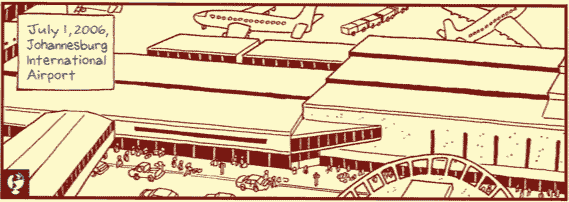
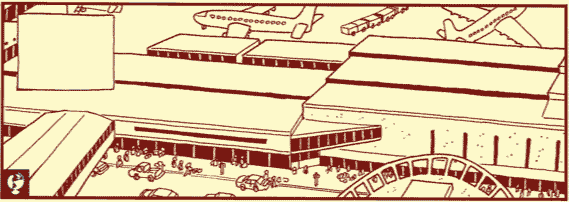
resizing captions

Changed region(s): [[0.0299, 0.1188, 0.2091, 0.3267], [0.0299, 0.3564, 0.1494, 0.4158]]

diff --git a/css/styles.css b/css/styles.css
@@ -27,8 +27,18 @@ body {
   max-width: 100%;
   vertical-align: top;
 }
+/* This element can be used later on to globally adjust the position on screen resize */
+.panel-text-wrapper {
+  position: absolute;
+  width: 100%;
+  height: 100%;
+}
 .panel-text {
   position: absolute;
+  font-family: "Comic Sans MS", sans-serif;
+  font-size: 1.3em;
+  text-align: center;
+  line-height: 1.2em;
 }
 .first-panel-in-row {
   margin-right: 1%;
@@ -39,5 +49,13 @@ body {
   }
   .panel {
     background-color: #00f;
+  }
+  .panel-text {
+    font-size: 2.3vw;
+  }
+}
+@media (max-width: 320px) {
+  .panel-text {
+    font-size: 2.3vw;
   }
 }

diff --git a/index.html b/index.html
@@ -15,7 +15,9 @@
    <script type="text/jst" id="panel-template">
      <div class="panel <% if (m) print('first-panel-in-row') %>" style="width:<%= calcImgPercentage(i) %>%;">
        <% for (var j = 0; j < t.length; j++){ %>
-         <div class="panel-text <% if (t[j].c) print('caption') %>" style="<%= t[j].s %>"><%= t[j].t %></div>
+         <div class="panel-text-wrapper">
+           <div class="panel-text <% if (t[j].c) print('caption') %>" style="<%= t[j].s %>"><%= t[j].t %></div>
+        </div>
       <% } %>
        <img src="imgs/page<%= i %>.png" />
      </div>

diff --git a/js/app.js b/js/app.js
@@ -2,9 +2,10 @@
   'use strict';
 
   var CONFIG = {
-    full_width: $('#pages').width()
+    full_width: 570
   }
 
+  console.log(CONFIG.full_width);
   $.getJSON('../data/page1.json', handlePage);
 
   var panelTemplateFactory = _.template($('#panel-template').html());
